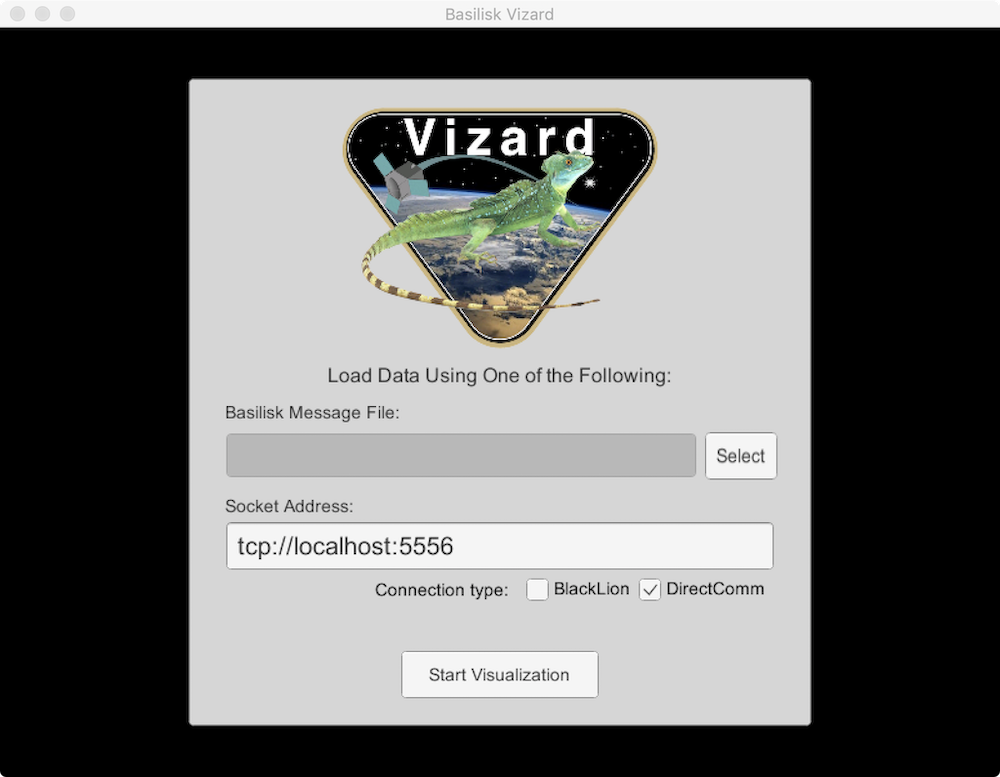
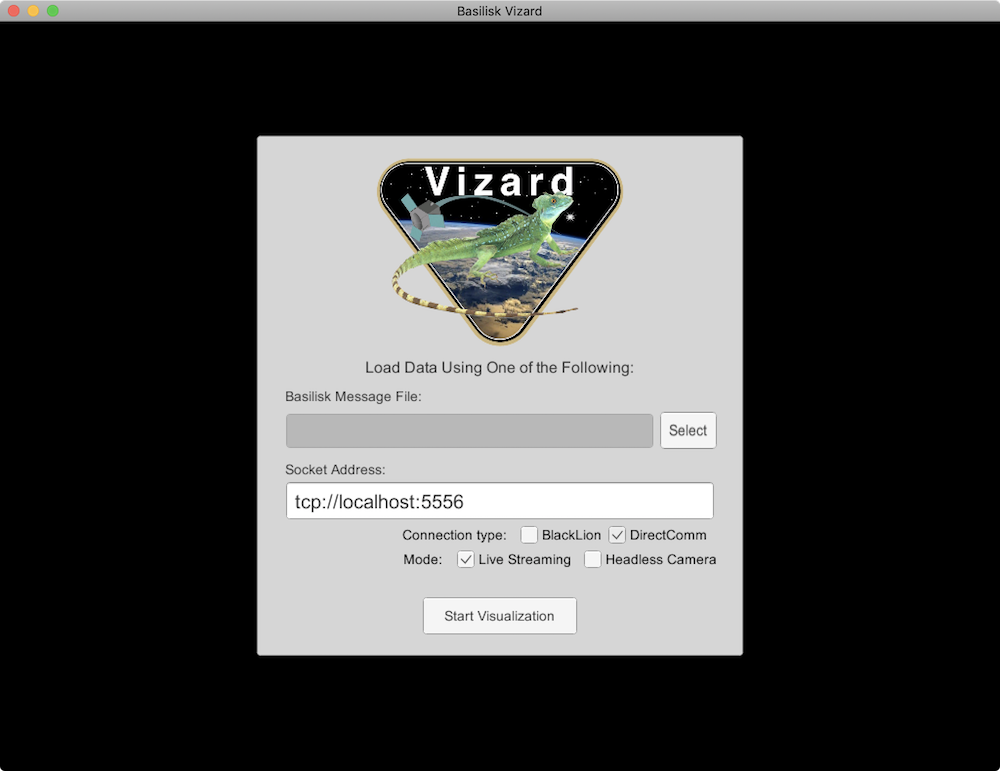
[BSK-1485] updated the live streaming instructions with the new Vizard startup panel toggle options
Former-commit-id: 4ea698a56cb46a801030e2c7fc4c517c6bedbfff
Former-commit-id: 2e3d0f3ad38d567c5628feaa648e2b2979185633

diff --git a/src/tests/scenarios/scenarioBasicOrbitStream.py b/src/tests/scenarios/scenarioBasicOrbitStream.py
@@ -81,9 +81,10 @@ from Basilisk.simulation import clock_synch
 #
 #       Waiting for Vizard at tcp://localhost:5556
 #
-# Copy `tcp::localhost:5556` and open the Vizard application.  Enter this address in the connection field and select
-# "Direct Communication" mode.  After this the Basilisk simulation resumes and will live stream the data to Vizard.
+# Copy `tcp://localhost:5556` and open the Vizard application.  Enter this address in the connection field and select
+# "Direct Communication" mode as well as "Live Streaming".  After this the Basilisk simulation resumes and will live stream the data to Vizard.
 # \image html Images/doc/vizard-ImgStream.png "Vizard Direct Communication Panel Illustration" width=500px
+#
 # To avoid the simulation running too quickly, this tutorial example script includes the `clock_sync` module that
 # enables a 50x realtime mode using.
 # ~~~~~~~~~~~~~~~{.py}
